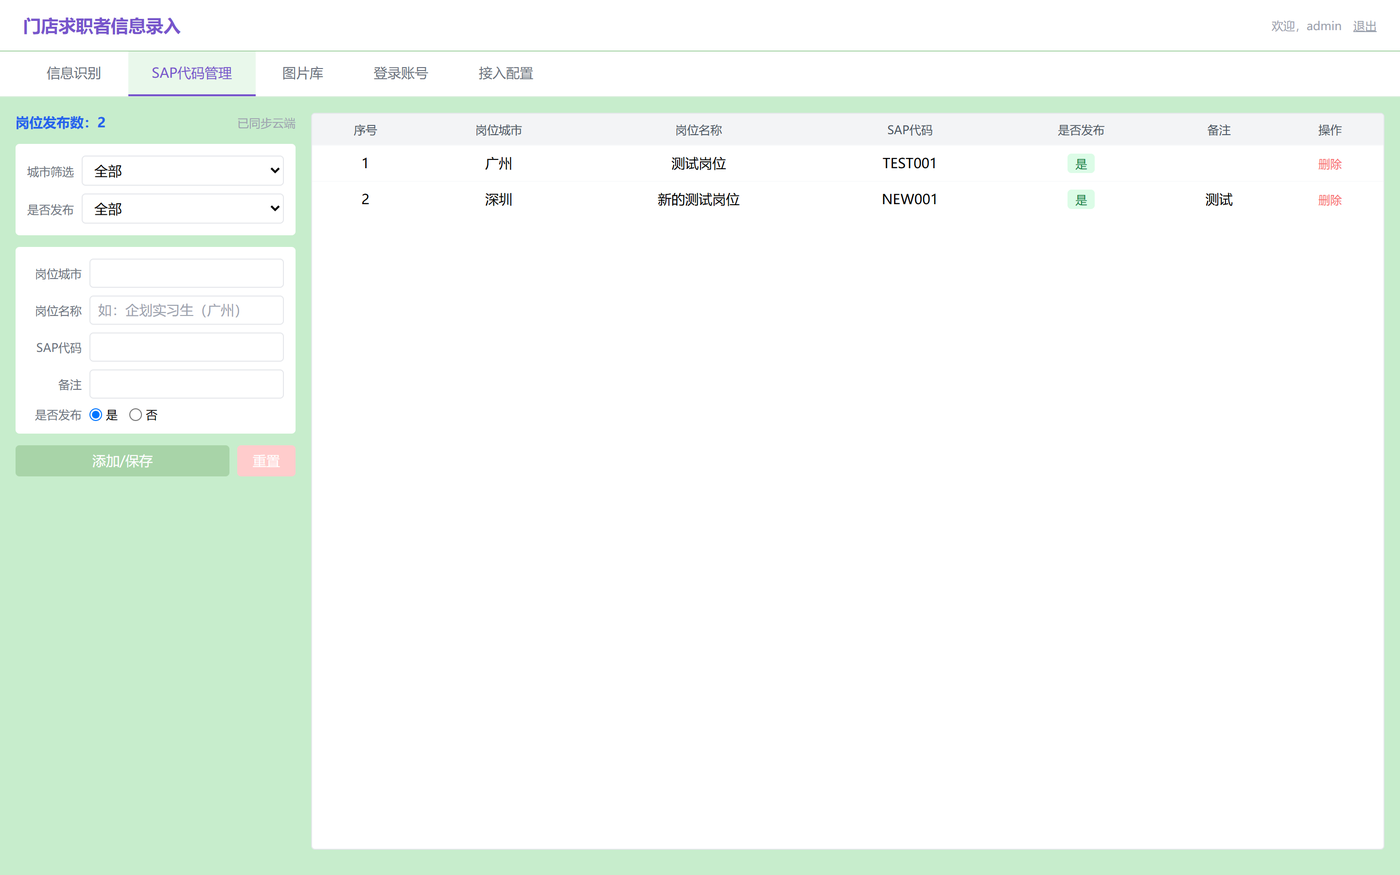
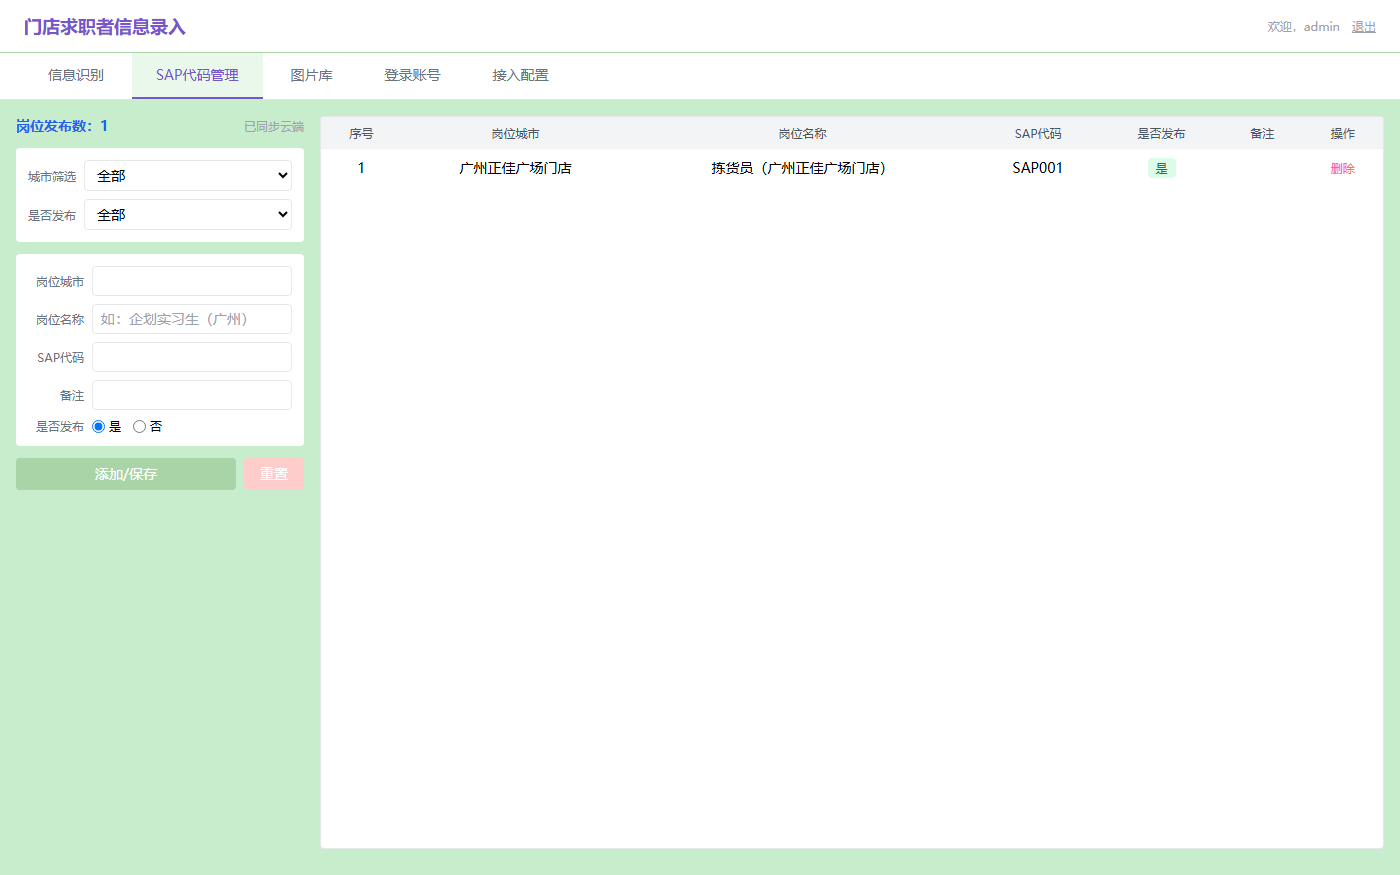
docs: 演示素材与功能概览重做，匹配最新版界面

diff --git a/README.en.md b/README.en.md
@@ -34,7 +34,7 @@ The desktop version was used in production by the recruiting team; the web versi
 
 ![Demo walkthrough](docs/images/demo.gif)
 
-<sub>Paste → parse → switch write target → write, in 7 steps. Switching the target in *Integrations* keeps whatever you already filled in on Tab 1.</sub>
+<sub>Paste → parse → switch write target → write, in 9 steps. Switching the target in *Integrations* keeps whatever you already filled in on Tab 1.</sub>
 
 ## 🚀 Evolution
 
@@ -56,7 +56,7 @@ Not a one-shot portfolio piece — it went through 6 iterations driven by real b
 | **Tab1 Parsing** | Paste chat log → regex-extract name / phone / WeChat / age / store; store name → SAP code auto-lookup; write to the configured target |
 | **Tab2 SAP Codes** | Tree-based management of store ↔ position ↔ SAP mappings: fuzzy search, CRUD, inline edit, publish stats, column-width memory |
 | **Tab3 Image Library** | Business screenshots (store manager contacts): preview / fullscreen / copy-to-clipboard / upload as Feishu attachment |
-| **Tab4 Feishu Accounts** | Multi-app credential management, active-account switching, tenant access token connectivity test |
+| **Tab4 Accounts** | System account management: create/edit users and reset passwords (admins see all, regular users only their own); also holds Feishu app credentials (App ID / App Secret / App Token) used by the Feishu write target |
 | **Tab5 Integrations** | **Pluggable write target**: Feishu Base / any Webhook (DingTalk, WeCom, custom API) / Supabase / local CSV export — switch + test connectivity in one click |
 | **System** | Auth (local bcrypt / Supabase), user management, single-instance guard, layout persistence, tab state preserved across switches |
 
@@ -66,7 +66,7 @@ Not a one-shot portfolio piece — it went through 6 iterations driven by real b
 |---|---|
 | ![Tab1](docs/images/tab1-blank.png) | ![Tab2](docs/images/tab2-sap.png) |
 
-| Tab3 Image Library | Tab4 Feishu Accounts | Tab5 Integrations |
+| Tab3 Image Library | Tab4 Accounts | Tab5 Integrations |
 |---|---|---|
 | ![Tab3](docs/images/tab3-images.png) | ![Tab4](docs/images/tab4-accounts.png) | ![Tab5](docs/images/tab5-integration.png) |
 
@@ -164,6 +164,7 @@ See [`desktop/README.md`](./desktop/README.md) to connect your own Feishu app.
 - All secrets removed from source; injected via env vars / config files (`.env.example`)
 - Real business screenshots (store manager contact info) are **not** distributed in this repo
 - `sap_config.json` / `feishu_accounts.json` contain sample data only
+- The public demo Supabase project ships sample data as well (1 SAP code); the full 400+ entry library lives in the production environment
 
 ## 📄 License
 

diff --git a/README.md b/README.md
@@ -36,7 +36,7 @@
 
 ![演示动线](docs/images/demo.gif)
 
-<sub>从粘贴聊天记录到一键写入，全流程 7 步；写入目标可在「接入配置」中随时切换，切换后 Tab1 已填数据不丢失。</sub>
+<sub>从粘贴聊天记录到一键写入，全流程 9 步；写入目标可在「接入配置」中随时切换，切换后 Tab1 已填数据不丢失。</sub>
 
 ## 🚀 项目演进
 
@@ -58,7 +58,7 @@
 | **Tab1 信息识别** | 粘贴聊天记录，正则解析姓名 / 手机号 / 微信号 / 年龄 / 门店；门店名 → SAP 代码自动查表回填；一键写入目标系统 |
 | **Tab2 SAP 代码管理** | 门店 ↔ 岗位 ↔ SAP 映射的树形管理：模糊搜索、增删改、双击编辑、发布状态统计、列宽记忆 |
 | **Tab3 图片库** | 店长联系方式截图等业务图片：预览 / 全屏 / 复制到剪贴板（直接粘进微信）/ 上传飞书附件 |
-| **Tab4 飞书账号管理** | 多飞书应用凭证管理、活跃账号切换、Tenant Access Token 连通性测试 |
+| **Tab4 登录账号** | 系统账号管理：新增/编辑用户与密码重置（管理员可见全部账号，普通用户仅见自己）；同时可维护飞书应用凭证（App ID / App Secret / App Token）供飞书写入目标使用 |
 | **Tab5 接入配置** | **写入目标可插拔**：飞书多维表格 / 任意 Webhook（钉钉、企业微信、自建 API）/ Supabase 云端 / 本地 CSV 导出，一键切换 + 连通性测试 |
 | **系统层** | 登录认证（本地 bcrypt / Supabase 云端）、用户管理与密码重置、多实例保护、界面布局持久化、页签切换状态保留 |
 
@@ -68,7 +68,7 @@
 |---|---|
 | ![Tab1](docs/images/tab1-blank.png) | ![Tab2](docs/images/tab2-sap.png) |
 
-| Tab3 图片库 | Tab4 飞书账号管理 | Tab5 接入配置 |
+| Tab3 图片库 | Tab4 登录账号 | Tab5 接入配置 |
 |---|---|---|
 | ![Tab3](docs/images/tab3-images.png) | ![Tab4](docs/images/tab4-accounts.png) | ![Tab5](docs/images/tab5-integration.png) |
 
@@ -187,6 +187,7 @@ python 求职者信息录入.py    # 本地模式内置账号 admin / Aa@123456
 - 所有密钥已从代码中移除，改用环境变量 / 配置文件注入（见 `.env.example`）
 - 门店联系方式截图等真实业务素材**不随仓库分发**
 - `sap_config.json`、`feishu_accounts.json` 均为示例数据，生产数据在团队内网环境
+- 线上演示用的 Supabase 库同样只保留示例数据（SAP 代码 1 条），完整的 400+ 条门店岗位代码库在生产环境
 
 ## 📄 License
 
